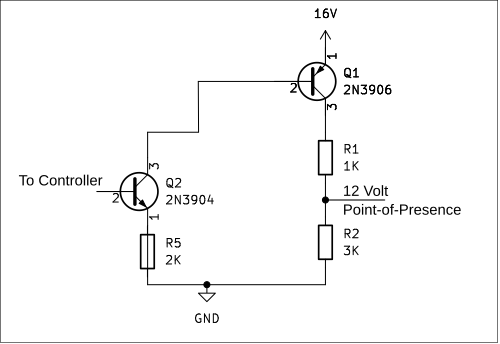
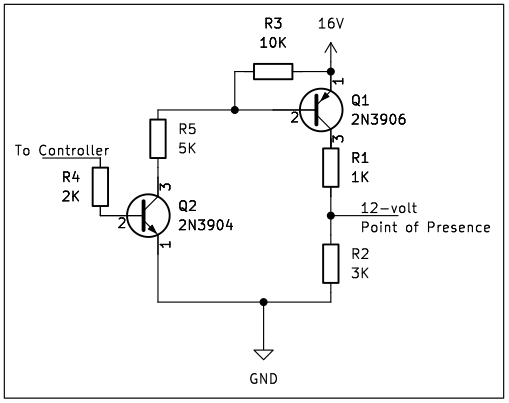
revise the schematic

Changed region(s): [[0.0, 0.0, 1.0, 1.0], [0.39, 0.9012, 0.45, 0.9593]]

diff --git a/README.md b/README.md
@@ -17,20 +17,20 @@ Advantages and disadvantages for using transistors, rather than MOSFETs, will be
 
 The diagram depicts an *unloaded* voltage divider. It satisfies requirements because the application in this case does not need to source any *current* at the 12-volt presence. It merely needs to sense the potential.
 
-Q1 is a 2N3906 bipolar-junction PNP-type transistor. The emitter connects to the 16-volt power supply. The collector sources current into the voltage divider when the base voltage is pulled low.
+Q1 is a 2N3906 bipolar-junction PNP-type transistor. The emitter connects to the 16-volt power supply. The collector sources about 4 milliAmps of current into the 4K-Ohm voltage divider when the base voltage is pulled low.
 
 >***Important!***<br>
->When the base is pulled low (meaning, it has a path to ground), current is going to flow out of that base at a voltage level of near 16 volts.
+>When the base is pulled low (meaning, it has a path to ground), current will flow out of the PNP's base too, also at a voltage level of near 16 volts.
 >
->This can cause two bad things to happen.
+>This has the potential to cause two bad things to happen.
 >
->The first bad thing is to destroy an Arduino, if the PNP base connects directly to an I/O pin. Those pins cannot tolerate much above 5 volts and 40 milliAmps. Q2 protects the Arduino.
+>The first bad thing is to destroy an Arduino, if the PNP base connects directly to an I/O pin. Those pins cannot tolerate much above 5 volts. Q2 protects the Arduino.
 >
->The second bad thing is to blow up the transistor. It goes POW! and pieces fly off with too much current through the base. The resistor, R5, limits the current.
+>The second bad thing is to blow up the transistor. It goes POW! and pieces fly off with too much current through the base. The 5K-ohm resistor, R5, limits the current to about 3 milliAmps at 16 volts. 5K was an arbitrary choice. Only about 0.4 milliAmps through the base is needed to allow 4 milliAmps through the collector.
 
 Q2 is a 2N3904 bipolar-junction NPN-type transistor. It serves to drive the base of the PNP. The NPN shorts the 16-volt potential of the PNP base to ground when the controller applies 5 volts to the base of the NPN.
 
-The base of the NPN will draw a bit of current from the controller. An Arduino digital I/O pin in OUTPUT mode will source current when it is HIGH. Here again, the R5 resistor limits the current.
+The base of the NPN will draw a bit of current from the controller. An Arduino digital I/O pin in OUTPUT mode will source current when it is HIGH. Current limitation is a good idea here, also. The 2K-ohm R4 resistor limits the current to about 2.5 milliAmps.
 
 ### Untangling the Transistor Jargon
 They are versatile things, transistors. For professional communications, engineers practice a rich, private jargon when they talk to each other about transistors.
@@ -57,6 +57,8 @@ When the base is given a path to ground, then current can flow both through the 
 
 * The voltage divider is then energized.
 * 12 volts can be measured at the Point-of-Presence.
+
+What is the 10K resistor, R3, doing there? It ensures that the base voltage of the PNP will equal that of the emitter whenever the NPN transistor is not conducting.
 
 #### NPN Transistor
 The 2N3904 is in a *low-side* position with respect to the PNP. That is, it stands between the high-voltage potential of the PNP and ground.
@@ -102,13 +104,4 @@ PCMs can be more difficult to find and more expensive for hobbyists like me, com
 Bob Dorr, a famous Blues musician in Iowa, once told me, "The best ability is *avail*ability." PNP transistors shine in that light for this purpose. Even better, I had them on hand already.
 
 Now you know why I used transistors.
-
-### Circuit To-Dos
-A few more resistors will likely come into play as my parallel programmer project advances.
-
-1. A 10-K pullup between the PNP's base and the 16-volt source could help to guard against brief, unwanted current flow when the base is in an indeterminate state, such as when the transistor is first powering-up.
-
-2. A current-limiting resistor on the base of the NPN might make sense. It needs less than 1 milliAmp of current there. Any resistor value ranging from 1K to 5K ought to satisfy requirements.
-
-3. A current-limiting resistor might be needed between the Point-of-Presence and whatever connects to it. Or it might not. Parallel programming connects it to the reset pin of the target AVR controller. Reset is an ordinary I/O pin that will be and remain in a high-impedance state. I believe "high-impedance" means no current would flow through the pin in any event.
 
